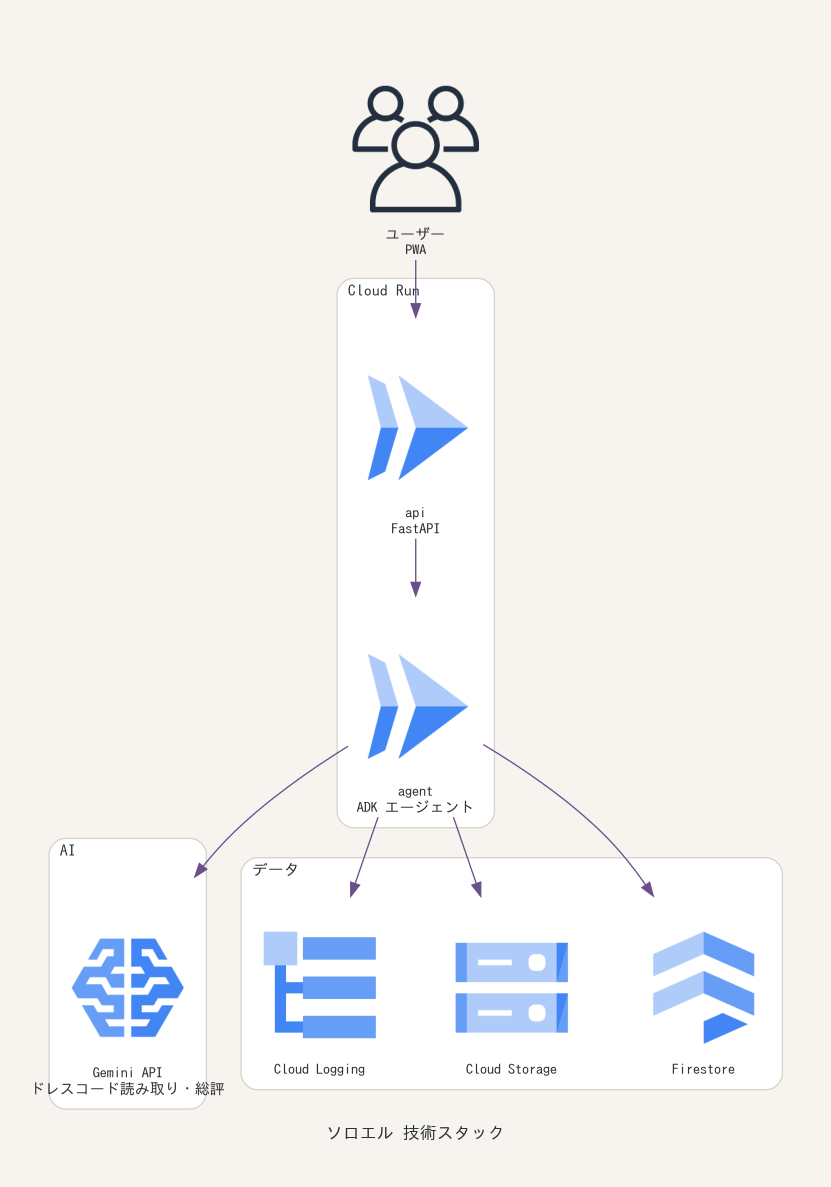
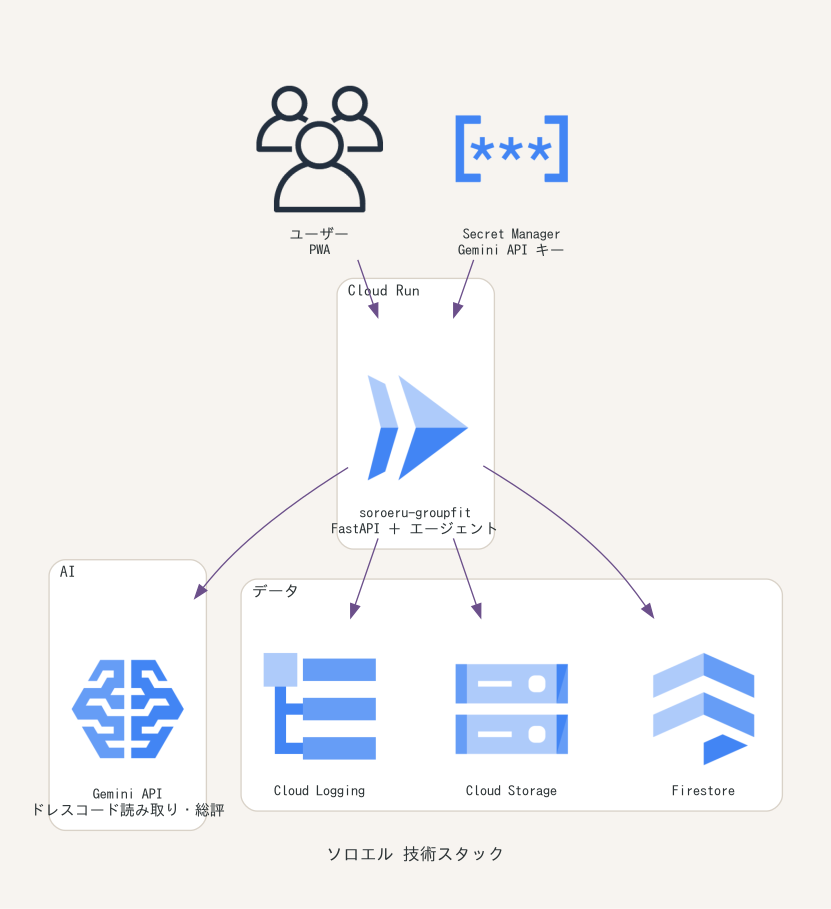
feat: アーキテクチャ図を更新し、エージェント群の表記を修正

diff --git a/docs/architecture.py b/docs/architecture.py
@@ -14,6 +14,7 @@ from diagrams.gcp.compute import Run
 from diagrams.gcp.database import Firestore
 from diagrams.gcp.ml import AIPlatform
 from diagrams.gcp.operations import Logging
+from diagrams.gcp.security import SecretManager
 from diagrams.gcp.storage import GCS
 from diagrams.onprem.client import Users
 
@@ -44,9 +45,9 @@ with Diagram(
 ):
     users = Users("ユーザー\nPWA")
 
+    # サービスは1つ。API とエージェント群（Orchestrator・調和・合成・手配）は同じプロセスで動く
     with Cluster("Cloud Run", graph_attr=CLUSTER_ATTR):
-        api = Run("api\nFastAPI")
-        agent = Run("agent\nADK エージェント")
+        app = Run("soroeru-groupfit\nFastAPI ＋ エージェント")
 
     # LINE は MessagingPort の実装として口だけあるが、MVP では使わないので載せない
     with Cluster("AI", graph_attr=CLUSTER_ATTR):
@@ -57,8 +58,11 @@ with Diagram(
         gcs = GCS("Cloud Storage")
         logging = Logging("Cloud Logging")
 
-    users >> api >> agent
-    agent >> gemini
-    agent >> firestore
-    agent >> gcs
-    agent >> logging
+    secrets = SecretManager("Secret Manager\nGemini API キー")
+
+    users >> app
+    app >> gemini
+    app >> firestore
+    app >> gcs
+    app >> logging
+    secrets >> app

diff --git a/CONTRIBUTING.md b/CONTRIBUTING.md
@@ -126,7 +126,7 @@ graphviz と日本語フォントは生成専用のイメージ（`docs/Dockerfi
 | パス | 役割 |
 |---|---|
 | `app/domain/` | 判定ロジック（色差 CIEDE2000・ドレスコード・調和）。LLM に依存しない純関数です |
-| `app/agents/` | ADK 相当のエージェント群。`orchestrator.py` がルームの状態から進行を決めます |
+| `app/agents/` | エージェント群（調和・合成・手配・試着）。`orchestrator.py` がルームの状態から進行を決めます |
 | `app/ports/` | 外部API・永続化の抽象。mock / live はここだけで差し替えます |
 | `app/rendering/` | 試着カード・集合プレビューの描画（Pillow） |
 | `app/main.py` | API Gateway。薄く保ち、進行の判断は Orchestrator に委ねます |
